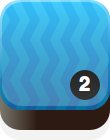
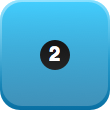
new revision

diff --git a/index.html b/index.html
@@ -36,7 +36,9 @@
   engine.loadImage("piece_6","images/piece_6.png");
   engine.loadImage("piece_7","images/piece_7.png");
   engine.loadImage("piece_8","images/piece_8.png");
-  engine.loadImage("piece_white","images/piece_white.png");
+  engine.loadImage("piece_x2","images/piece_x2.png");
+  engine.loadImage("piece_x3","images/piece_x3.png");
+  engine.loadImage("piece_x4","images/piece_x4.png");
 
   // localStorage["numbers-hiscore"]=0;
   engine.addScene("game",{
@@ -53,6 +55,7 @@
     frameTime:1000/30,
     blocks:[],
     colors:[],
+    lastNumber:0,
 
     enter:function(){
       // load hiscore
@@ -82,11 +85,13 @@
     multiplier:1,
     markCount:0,
     getNewBlockType:function(){
-      if(Math.random()<0.03){
+      if(this.lastNumber==4){
+        this.lastNumber=0;
         if(Math.random()<0.3)return 10000;
         if(Math.random()<0.3)return 10001;
         return 10002;
       }else{
+        this.lastNumber=0;
         return Math.floor(Math.random()*4+1);
       }
     },
@@ -146,7 +151,7 @@
     checkGameOver:function(){
       for(var iy=0;iy<this.rows;iy++){
         for(var ix=0;ix<this.columns;ix++){
-          if(this.blocks[ix+iy*this.columns].number==10010){
+          if(this.blocks[ix+iy*this.columns].number==6){
             return false;
           }
           this.markCount=0;
@@ -175,14 +180,14 @@
         this.blocks[i].mark=false;
       }
       var num=this.blocks[x+y*this.columns].number;
-      if(num==6){
+      if(num==10010){
         // new style bomb
         this.explodeSideBomb(x,y);
         this.addScore(250);
         this.addBonusText("Blow away row, 250 points");
         this.scheduleFunction(this.frameTime,this.collapseBlocks);
         return;
-      }else if(num==10010){
+      }else if(num==10011){
         // bomb
         this.explodeBomb(x,y);
         this.scheduleFunction(this.frameTime,this.collapseBlocks);
@@ -193,9 +198,9 @@
       }
       this.markCount=0;
       var scoreAdd=0;
-      
       this.traverse(x,y,num);
       if(this.markCount>2){
+        this.lastNumber=num;
         for(var i=0;i<this.blocks.length;i++){
           if(this.blocks[i].mark){
             this.blocks[i].number=-1;
@@ -267,42 +272,17 @@
     renderBlock:function(ctx,x,y,number){
       if(number==-1)return;
         var img_id="piece_1";
-        if(number>=10000){
-          img_id="piece_white";
+        if(number==10000){
+          img_id="piece_x2";
+        }else if(number==10001){
+          img_id="piece_x3";
+        }else if(number==10002){
+          img_id="piece_x4";
         }else if(number<10){
           img_id="piece_"+number;
         }
         ctx.drawImage(engine.image(img_id),x,y);
-
-        if(number>=10000){
-          if(number<10010){
-             // render number
-            ctx.font="30px helvetica";
-            ctx.textAlign="center";
-            ctx.fillStyle="#000000";
-            var text="x2";
-            if(number==10001){
-              text="x3";
-            }else if(number==10002){
-              text="x4";
-            }
-            ctx.fillText(text,x+this.blockWidth/2,y+this.blockHeight/2+5);
-            var num=10;
-            var slice=(Math.PI*2)/num;
-            for(var i=0;i<num;i++){
-              ctx.fillStyle=this.colors[i];
-              ctx.beginPath();
-              ctx.arc(x+this.blockWidth/2+Math.cos(i*slice)*38-4,y+this.blockHeight/2+Math.sin(i*slice)*38-6,10,0,2*Math.PI,false);
-              ctx.fill();
-            }
-          }
-        }
-
-        // ctx.strokeText(number,x+this.blockSize/2-1,y+this.blockSize/2+28);
-        // use this in a loop later to adjust font size as numbers grow
-        // ctx.fillText(number,x+this.blockSize/2,y+this.blockSize/2);
-      // }
-    },
+     },
     runQueue:[],
     scheduleFunction:function(t,f){
       this.runQueue.push({
